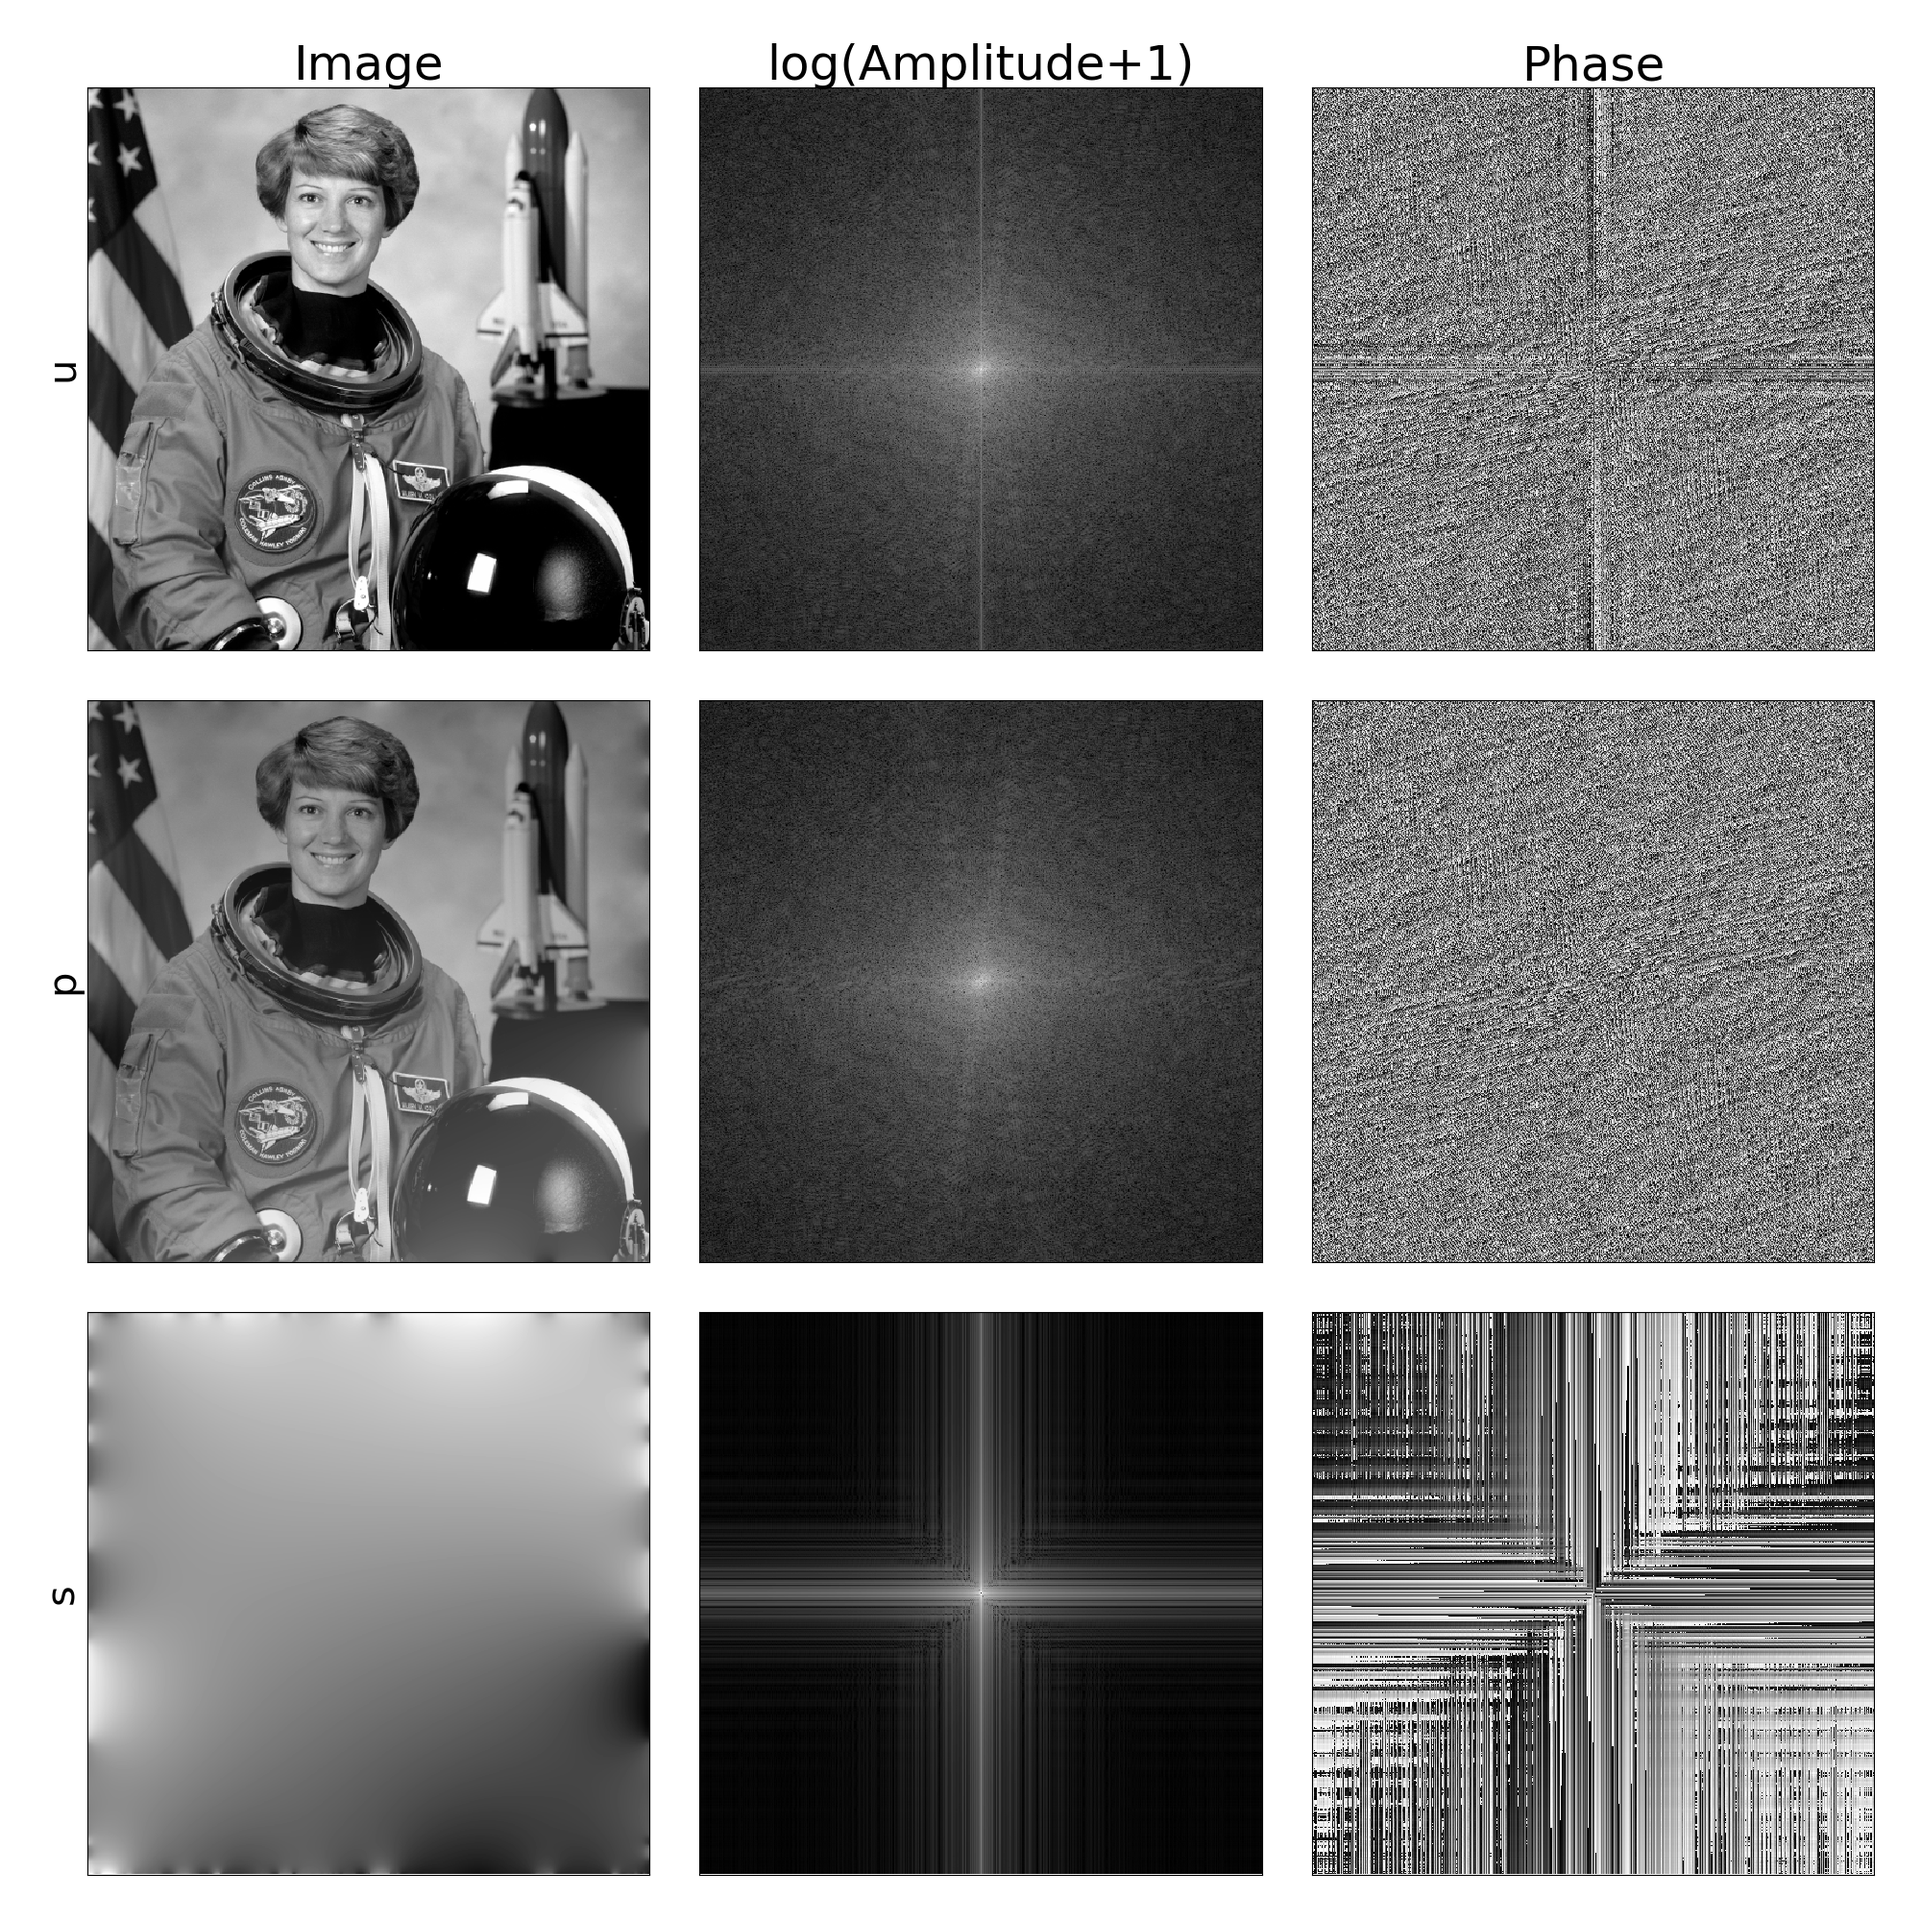
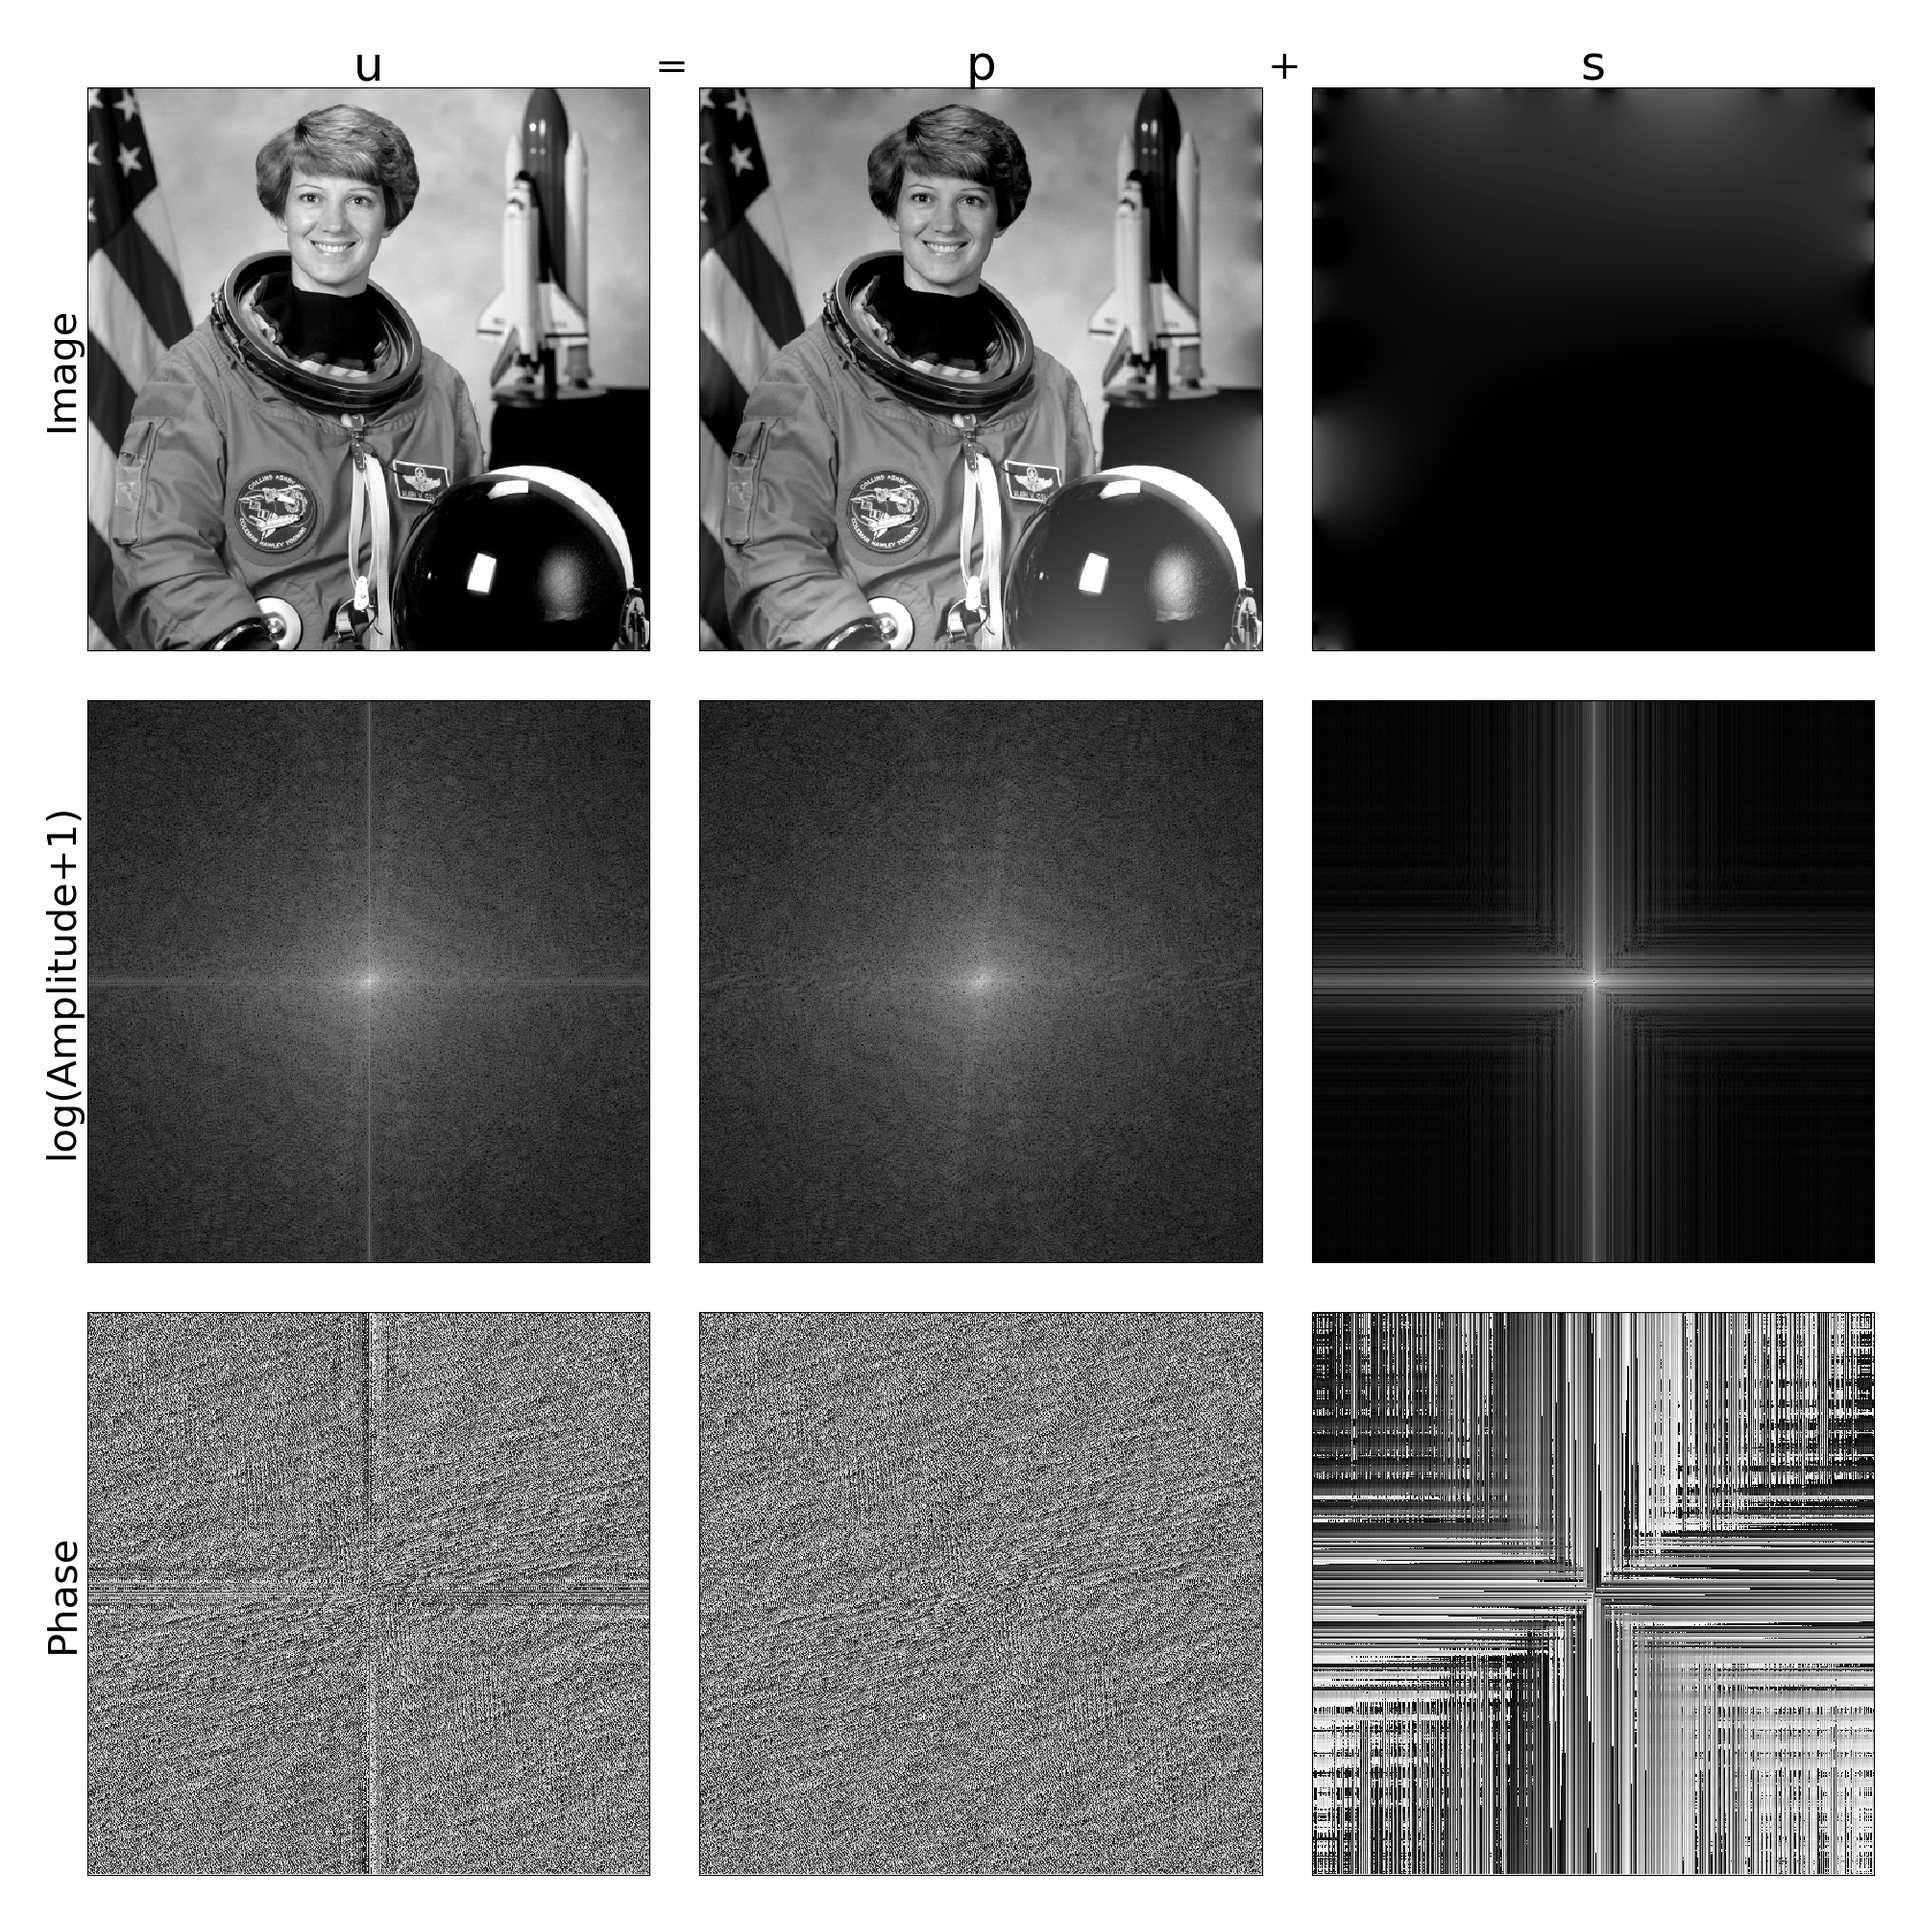
~aesthetics~

diff --git a/psd.py b/psd.py
@@ -7,7 +7,30 @@ Moisan, L. J Math Imaging Vis (2011) 39: 161.
 doi.org/10.1007/s10851-010-0227-1
 '''
 import numpy as np
-import skimage
+
+def periodic_smooth_decomp(I: np.ndarray) -> (np.ndarray, np.ndarray):
+    '''Performs periodic-smooth image decomposition
+
+    Parameters
+    ----------
+    I : np.ndarray
+        [M, N] image. will be coerced to a float.
+
+    Returns
+    -------
+    P : np.ndarray
+        [M, N] image, float. periodic portion.
+    S : np.ndarray
+        [M, N] image, float. smooth portion.
+    '''
+    u = skimage.img_as_float(I)
+    v = u2v(u)
+    v_fft = np.fft.fftn(v)
+    s = v2s(v_fft)
+    s_i = np.fft.ifftn(s)
+    s_f = np.real(s_i)
+    p = u - s_f # u = p + s
+    return p, s_f
 
 def u2v(u: np.ndarray) -> np.ndarray:
     '''Converts the image `u` into the image `v`
@@ -54,36 +77,13 @@ def v2s(v_hat: np.ndarray) -> np.ndarray:
     s[0, 0] = 0
     return s
 
-def periodic_smooth_decomp(I: np.ndarray) -> (np.ndarray, np.ndarray):
-    '''Performs periodic-smooth image decomposition
-
-    Parameters
-    ----------
-    I : np.ndarray
-        [M, N] image. will be coerced to a float.
-
-    Returns
-    -------
-    P : np.ndarray
-        [M, N] image, float. periodic portion.
-    S : np.ndarray
-        [M, N] image, float. smooth portion.
-    '''
-    u = skimage.img_as_float(I)
-    v = u2v(u)
-    v_fft = np.fft.fftn(v)
-    s = v2s(v_fft)
-    s_i = np.fft.ifftn(s)
-    s_f = np.real(s_i)
-    p = u - s_f # u = p + s
-    return p, s_f
-
 if __name__ == '__main__':
     '''Plot the astronaut with and without P&S decomp'''
     import matplotlib
     matplotlib.rcParams.update({'font.size':30})
     import matplotlib.pyplot as plt
     from skimage.data import astronaut
+    import skimage
 
     Irgb = astronaut()
     Ig = skimage.color.rgb2gray(Irgb)
@@ -93,19 +93,29 @@ if __name__ == '__main__':
 
     fig, ax = plt.subplots(3, 3, figsize=(20,20))
 
-    ylabs = ['u', 'p', 's']
+    labs = ['u', 'p', 's']
     for i, j in enumerate([Ig, p, s]):
         jf = np.fft.fftn(j)
-        ax[i, 0].imshow(j, cmap='gray')
-        ax[i, 0].set_ylabel(ylabs[i])
-        ax[i, 1].imshow(np.log(np.abs(np.fft.fftshift(jf)) + 1), cmap='gray')
-        ax[i, 2].imshow(np.angle(np.fft.fftshift(jf)), cmap='gray')
+        ax[0, i].imshow(j, cmap='gray', vmin=0., vmax=1.)
+        ax[0, i].set_title(labs[i])
+        ax[1, i].imshow(np.log(np.abs(np.fft.fftshift(jf)) + 1), cmap='gray')
+        ax[2, i].imshow(np.angle(np.fft.fftshift(jf)), cmap='gray')
         for k in range(3):
             ax[i, k].set_xticks([])
             ax[i, k].set_yticks([])
 
-    ax[0,0].set_title('Image')
-    ax[0,1].set_title('log(Amplitude+1)')
-    ax[0,2].set_title('Phase')
+    ax[0,0].text(1.04, 1.0, '=',
+            horizontalalignment='center',
+            verticalalignment='bottom',
+            transform=ax[0,0].transAxes)
+
+    ax[0,1].text(1.04, 1.0, '+',
+            horizontalalignment='center',
+            verticalalignment='bottom',
+            transform=ax[0,1].transAxes)
+
+    ax[0,0].set_ylabel('Image')
+    ax[1,0].set_ylabel('log(Amplitude+1)')
+    ax[2,0].set_ylabel('Phase')
     plt.tight_layout()
     plt.savefig('astronaut_psd.png')

diff --git a/README.md b/README.md
@@ -4,21 +4,21 @@ This repository implements "Periodic plus smooth image decomposition," as [descr
 
 *Periodic Plus Smooth Image Decomposition*  
 Moisan, L. J Math Imaging Vis (2011) 39: 161.  
-doi.org/10.1007/s10851-010-0227-1  
+[doi.org/10.1007/s10851-010-0227-1](doi.org/10.1007/s10851-010-0227-1)
 
 ## What is periodic plus smooth decomposition?
 
-Periodic plus smooth decomposition (PS decomposition) separates an image into its additive "periodic" and "smooth" components. 
+Periodic plus smooth decomposition (PS decomposition) separates an image into its additive "periodic" and "smooth" components.
 
-This decomposition is defined as splitting a gray image `u` into periodic `p` and smooth `s` components. 
+This decomposition is defined as splitting a gray image `u` into periodic `p` and smooth `s` components.
 
 We reference the paper for proper formal treatment of the topic, but in colloquial terms the image `p` contains only information in `u` that respects periodic assumptions and `s` is "maximally smooth," such that each pixel in `s` is equal to the mean of its neighbors.
 
 ## What does that mean and why is it useful?
 
-The discrete Fourier transform (DFT) is a common and useful analytical technique for images. Many operations can be computed more cheaply or are more intuitive in the Fourier domain. Applications of DFT range from image interpolation to image registration. 
+The discrete Fourier transform (DFT) is a common and useful analytical technique for images. Many operations can be computed more cheaply or are more intuitive in the Fourier domain. Applications of DFT range from image interpolation to image registration.
 
-DFT assumes that the signal data it operates on is periodic. However, this is obviously not true for the vast majority of images, which will experience artifacts at the boundaries due to their non-periodic nature. 
+The DFT assumes that the signal data it operates on is periodic. However, this is obviously not true for the vast majority of images, which will experience artifacts at the boundaries due to their non-periodic nature.
 
 One of the most common of these artifacts is a large "cross" in the Fourier domain, demonstrated in the first row below.
 
@@ -28,7 +28,7 @@ By decomposing an image into a component that respects this periodicity assumpti
 
 ## What's in this repo?
 
-In `psd.py` you'll find functions to compute the PS decomposition. 
+In `psd.py` you'll find functions to compute the PS decomposition.
 
 ```bash
 python psd.py
@@ -36,6 +36,3 @@ python psd.py
 will reporduce the figure above.
 
 Happy decomposing!
-
-
-
